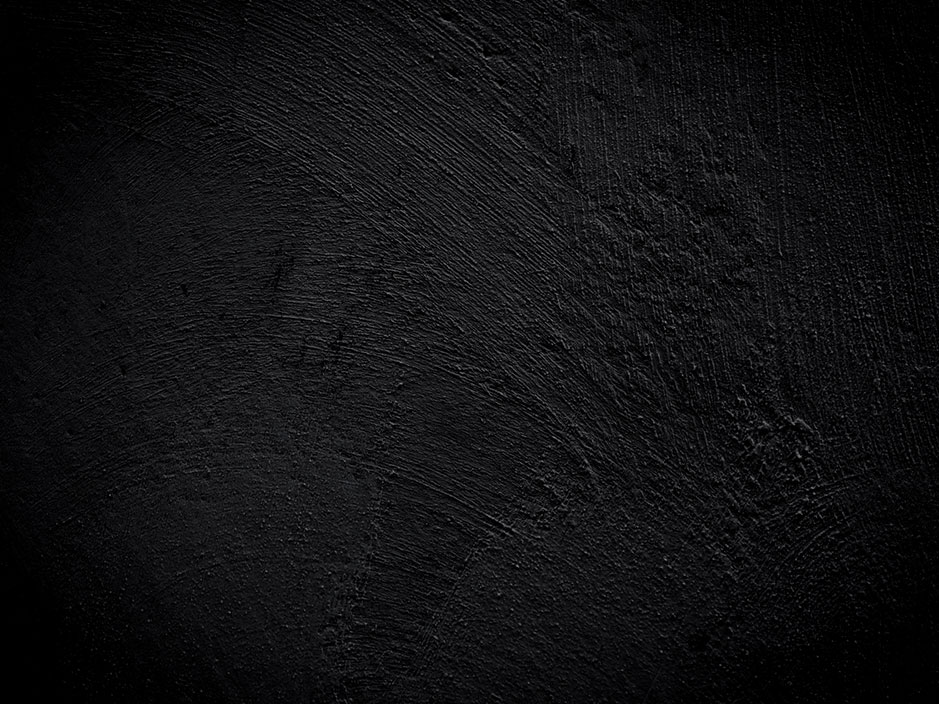
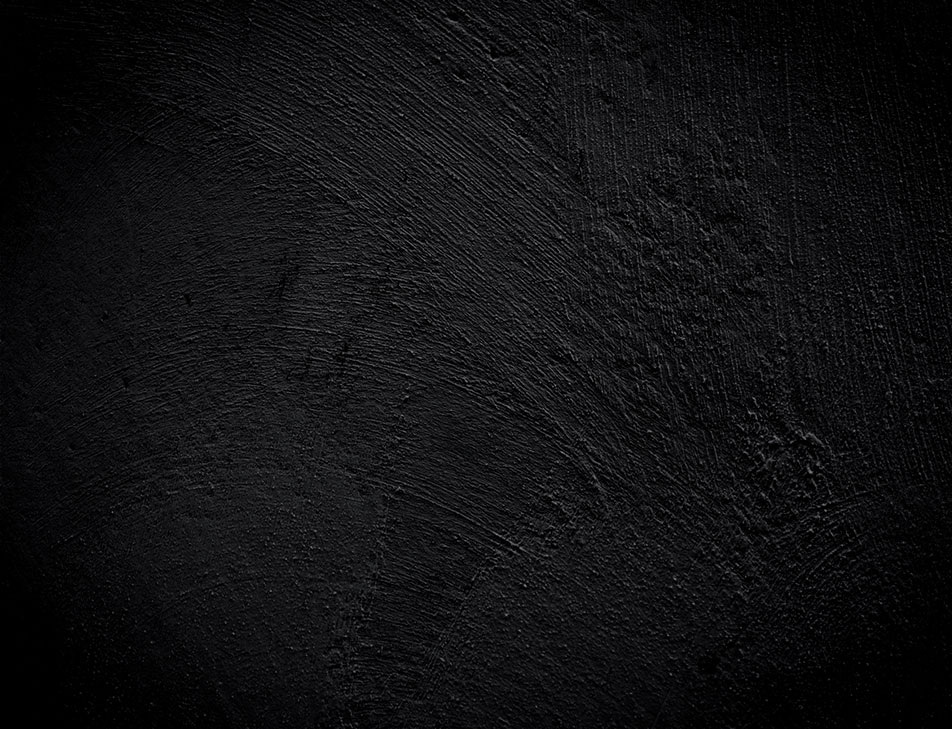
Adds images for link

diff --git a/index.html b/index.html
@@ -21,17 +21,19 @@
   <body>
 <div class="container">
   <div class="row">
-    <div class="col-xs-8 col-sm-1">
-      <a href=""><img src="assets/images/bottle_with_text.png"></a>
+    <div class="col-xs-8 col-sm-3">
+      <a class="bottle" href=""><img  src="assets/images/bottle_with_text.png"></a>
     </div>
-    <div class="col-xs-4 col-sm-8">
-      <div id="nav">
-        <ul>
-            <li>MOAB</li>
-            <li>My Gallery</li>
-            <li>MOAB Gallery</li>
-            <li>Mechanics</li>
-        </ul> 
+    <div class="col-xs-4 col-sm-9">
+      <div class="col-xs-8 col-sm-12">
+        <div id="nav">
+          <ul>
+            <li><a href=""><img src="assets/images/moab_btn2.png"></a></li>
+            <li><a href=""><img src="assets/images/my_gallery_btn1.png"></a></li>
+            <li><a href=""><img src="assets/images/moab_gallery_btn1.png"></a></li>
+            <li><a href=""><img src="assets/images/mechanics_btn1.png"></a></li> 
+          </ul> 
+        </div>
       </div>
       <div class="col-xs-8 col-sm-6">
         <img class="home_message" src="assets/images/message_home.png">
@@ -40,6 +42,7 @@
         <img class="promo_items" src="assets/images/promo_items.png">
       </div>
     </div>
+    <div>
   </div>
 
 </div>

diff --git a/assets/css/starter.css b/assets/css/starter.css
@@ -4,42 +4,49 @@ body {
 }
 
 .container {
-	background: url('../images/bg.jpg') no-repeat;
+	background: url('../images/bg.jpg') no-repeat center;
   padding-top: 5px;
 	
 }
 
 .bottle {
-	padding-bottom: 5em;
-	padding-left: 8em;
+	padding-left: 7em;
 }
 
 .promo_items {
-  padding-top: 5em;
-  padding-left: 10em;
+  padding-top: 6em;
+  padding-left: 4em;
 }
 
 .home_message {
-  padding-top: 6em;
-  padding-left: 8em;
+  padding-top: 4em;
+  padding-left: 3.5em;
 }
 
 #nav {
   display:block;
-  padding-left: 2em;
 }
 
 #nav ul {
   float: left;
   list-style:none;
-  height:50px;
+  height:70px;
+  padding-left: 0em;
+  display: block;
 }
 
 #nav ul li {
-	float: right;
-  padding-top: 9em;
-  padding-right: 5em;
-  margin-left: 2em;
-  background: url('../images/button.png') top no-repeat; 
+	display:inline-block;
+  margin-left: 1em;
+  width: 149px;
+  height: 145px;
+  
 }
-
+#nav ul li a { 
+  padding: 0;
+}
+#nav ul li a img {
+   display: block;
+   width: 149px;
+  height: 145px;
+}
